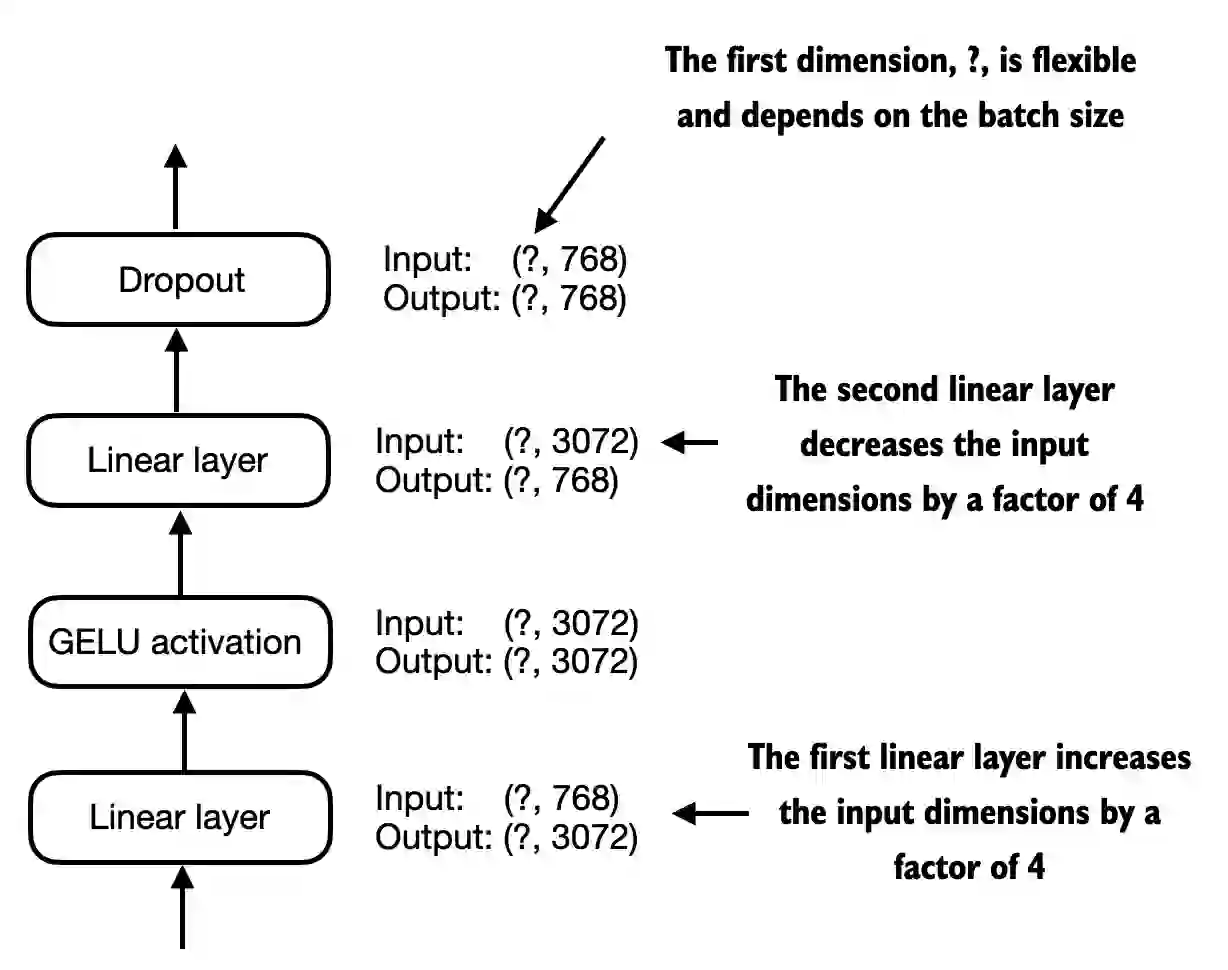
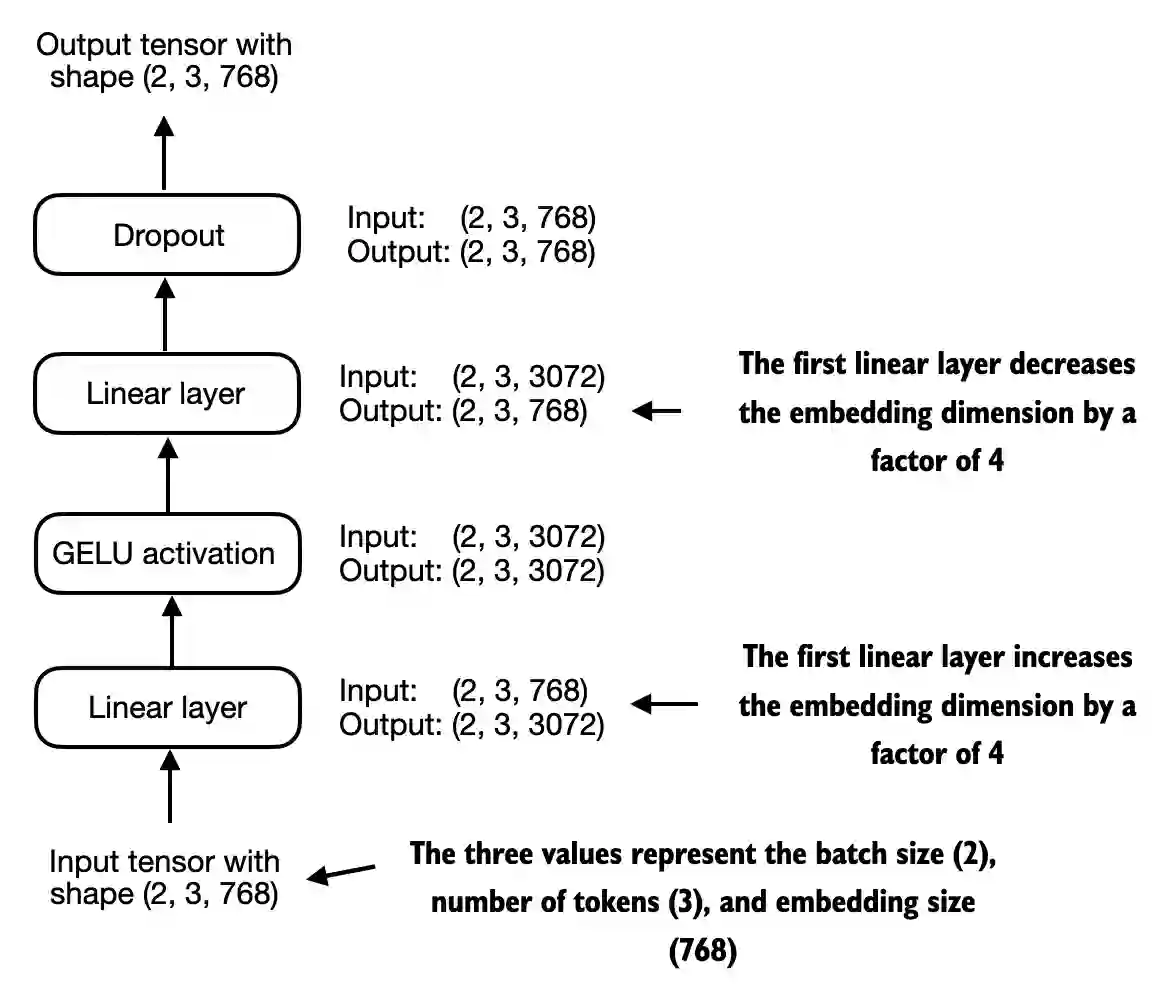
add shape information for clarity

diff --git a/ch04/01_main-chapter-code/gpt.py b/ch04/01_main-chapter-code/gpt.py
@@ -168,7 +168,7 @@ class TransformerBlock(nn.Module):
         # Shortcut connection for attention block
         shortcut = x
         x = self.norm1(x)
-        x = self.att(x)
+        x = self.att(x)   # Shape [batch_size, num_tokens, emb_size]
         x = self.drop_resid(x)
         x = x + shortcut  # Add the original input back
 
@@ -200,7 +200,7 @@ class GPTModel(nn.Module):
         batch_size, seq_len = in_idx.shape
         tok_embeds = self.tok_emb(in_idx)
         pos_embeds = self.pos_emb(torch.arange(seq_len, device=in_idx.device))
-        x = tok_embeds + pos_embeds
+        x = tok_embeds + pos_embeds  # Shape [batch_size, num_tokens, emb_size]
         x = self.trf_blocks(x)
         x = self.final_norm(x)
         logits = self.out_head(x)

diff --git a/README.md b/README.md
@@ -1,7 +1,5 @@
 # Build a Large Language Model (From Scratch)
 
-This repository contains the code for coding, pretraining, and finetuning a GPT-like LLM and is the official code repository for the book [Build a Large Language Model (From Scratch)](http://mng.bz/orYv).
-
 (If you downloaded the code bundle from the Manning website, please consider visiting the official code repository on GitHub at [https://github.com/rasbt/LLMs-from-scratch](https://github.com/rasbt/LLMs-from-scratch).)
 
 <br>
